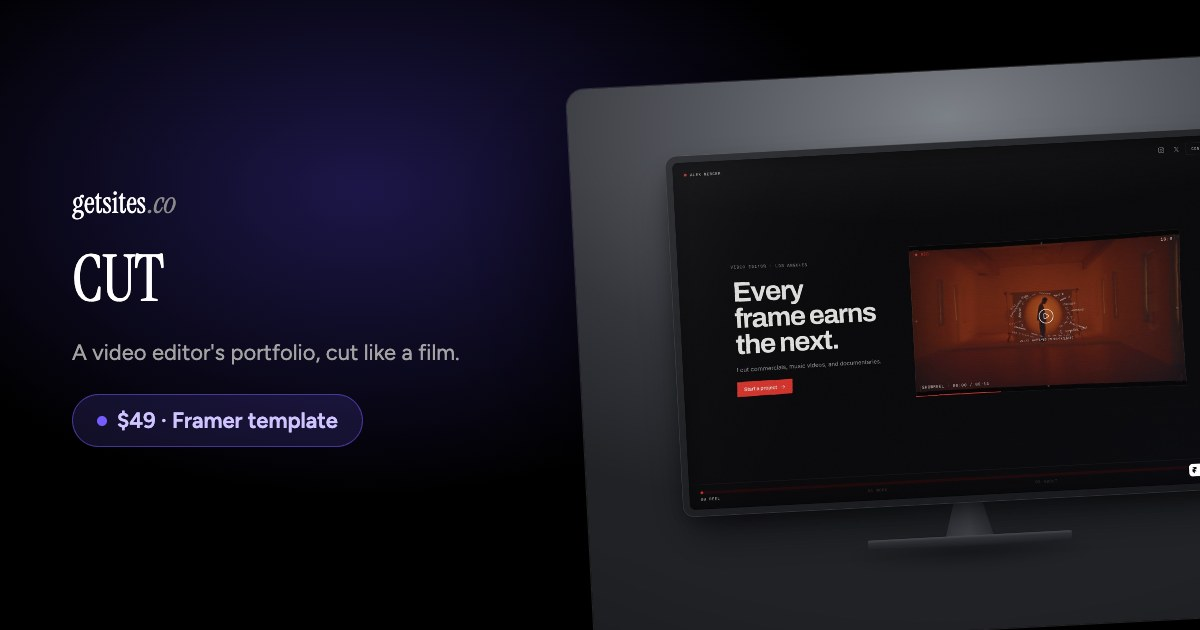
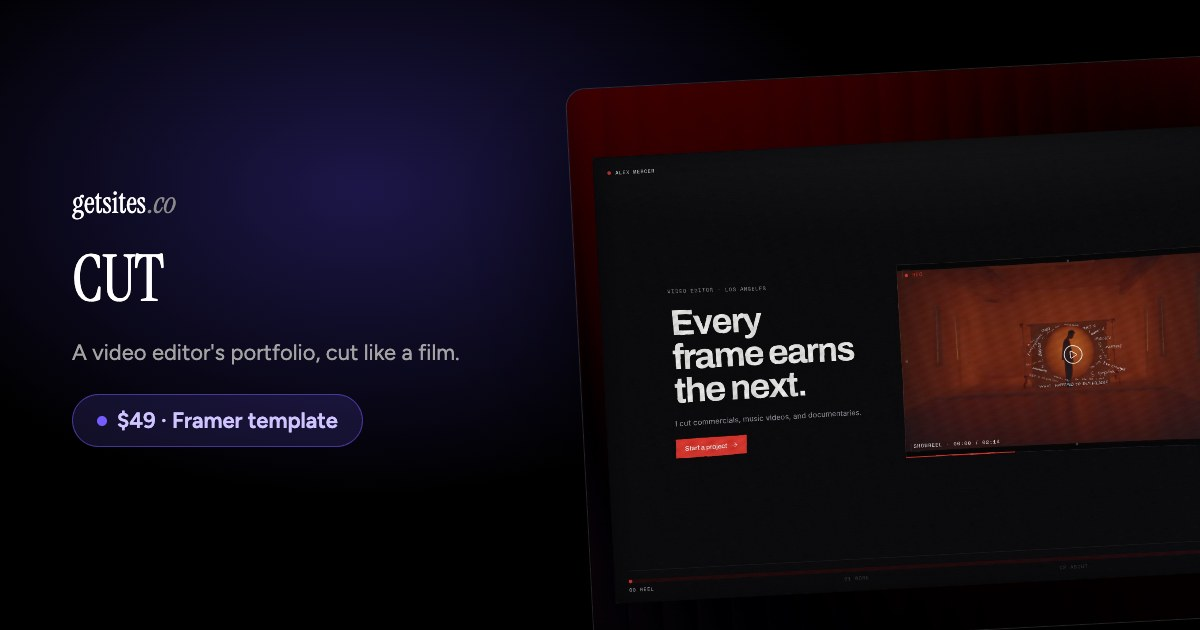
CUT preview materials swapped to the official marketing set ONLY: cover = Cutt1 hero mockup, gallery = Cutt1-4, walkthrough video (CDN-hosted cut-walkthrough.mp4) as a playable gallery item w/ play badge; live-captured shots removed; gallery/video override fields (t.gallery, t.video) added to the de

Changed region(s): [[0.4625, 0.0905, 1.0, 1.0], [0.9867, 0.7238, 1.0, 0.754], [0.6783, 0.6333, 0.7092, 0.6635]]

diff --git a/build.js b/build.js
@@ -830,10 +830,8 @@ const detail = (t) => {
 <div class="wrap crumb mono-sm"><a href="../../index.html">Home</a> &nbsp;/&nbsp; <a href="../../templates/index.html">Templates</a> &nbsp;/&nbsp; ${esc(t.name)}</div>
 <div class="wrap pd">
   <div class="pd-gallery">
-    <div class="pd-main"><img id="pd-img" src="../../${t.cover}" alt="${esc(t.name)} website template preview"></div>
-    ${[t.cover, inner, page2, mobile].filter(Boolean).length > 1 ? `<div class="pd-thumbs">
-      ${[t.cover, inner, page2, mobile].filter(Boolean).map((src, i) => `<button class="pd-th${i === 0 ? " on" : ""}" type="button" data-src="../../${src}"><img src="../../${src}" alt="" loading="lazy"></button>`).join("\n      ")}
-    </div>` : ""}
+    <div class="pd-main" id="pd-main"><img id="pd-img" src="../../${(t.gallery && t.gallery[0]) || t.cover}" alt="${esc(t.name)} website template preview"></div>
+    ${(() => { const g = t.gallery || [t.cover, inner, page2, mobile].filter(Boolean); const items = g.map((src, i) => `<button class="pd-th${i === 0 ? " on" : ""}" type="button" data-src="../../${src}"><img src="../../${src}" alt="" loading="lazy"></button>`); if (t.video) items.push(`<button class="pd-th pd-th-video" type="button" data-video="${t.video}"><img src="../../${(t.gallery && t.gallery[0]) || t.cover}" alt=""><span class="pd-play">&#9654;</span></button>`); return items.length > 1 ? `<div class="pd-thumbs">\n      ${items.join("\n      ")}\n    </div>` : ""; })()}
   </div>
   <div class="pd-info">
     <p class="cat mono">${esc(t.name.toUpperCase())} &middot; ${esc(t.category.toUpperCase())} TEMPLATE FOR FRAMER</p>
@@ -860,7 +858,12 @@ const detail = (t) => {
 <script>
 document.querySelectorAll(".pd-th").forEach(function (b) {
   b.addEventListener("click", function () {
-    document.getElementById("pd-img").src = b.dataset.src;
+    var main = document.getElementById("pd-main");
+    if (b.dataset.video) {
+      main.innerHTML = "<video src='" + b.dataset.video + "' controls autoplay muted playsinline loop></video>";
+    } else {
+      main.innerHTML = "<img id='pd-img' src='" + b.dataset.src + "' alt=''>";
+    }
     document.querySelectorAll(".pd-th").forEach(function (x) { x.classList.remove("on"); });
     b.classList.add("on");
   });

diff --git a/src/style.css b/src/style.css
@@ -1240,3 +1240,11 @@ footer { border-top: 1px solid var(--line); background: var(--bg-deep); }
   .bm-list { columns: 1; }
   #feat-nudge.bundle-nudge { max-width: none; }
 }
+
+/* pd gallery video */
+.pd-main video { display: block; width: 100%; }
+.pd-th { position: relative; }
+.pd-play {
+  position: absolute; inset: 0; display: flex; align-items: center; justify-content: center;
+  color: #fff; font-size: 18px; background: rgba(0, 0, 0, 0.45); border-radius: 10px;
+}